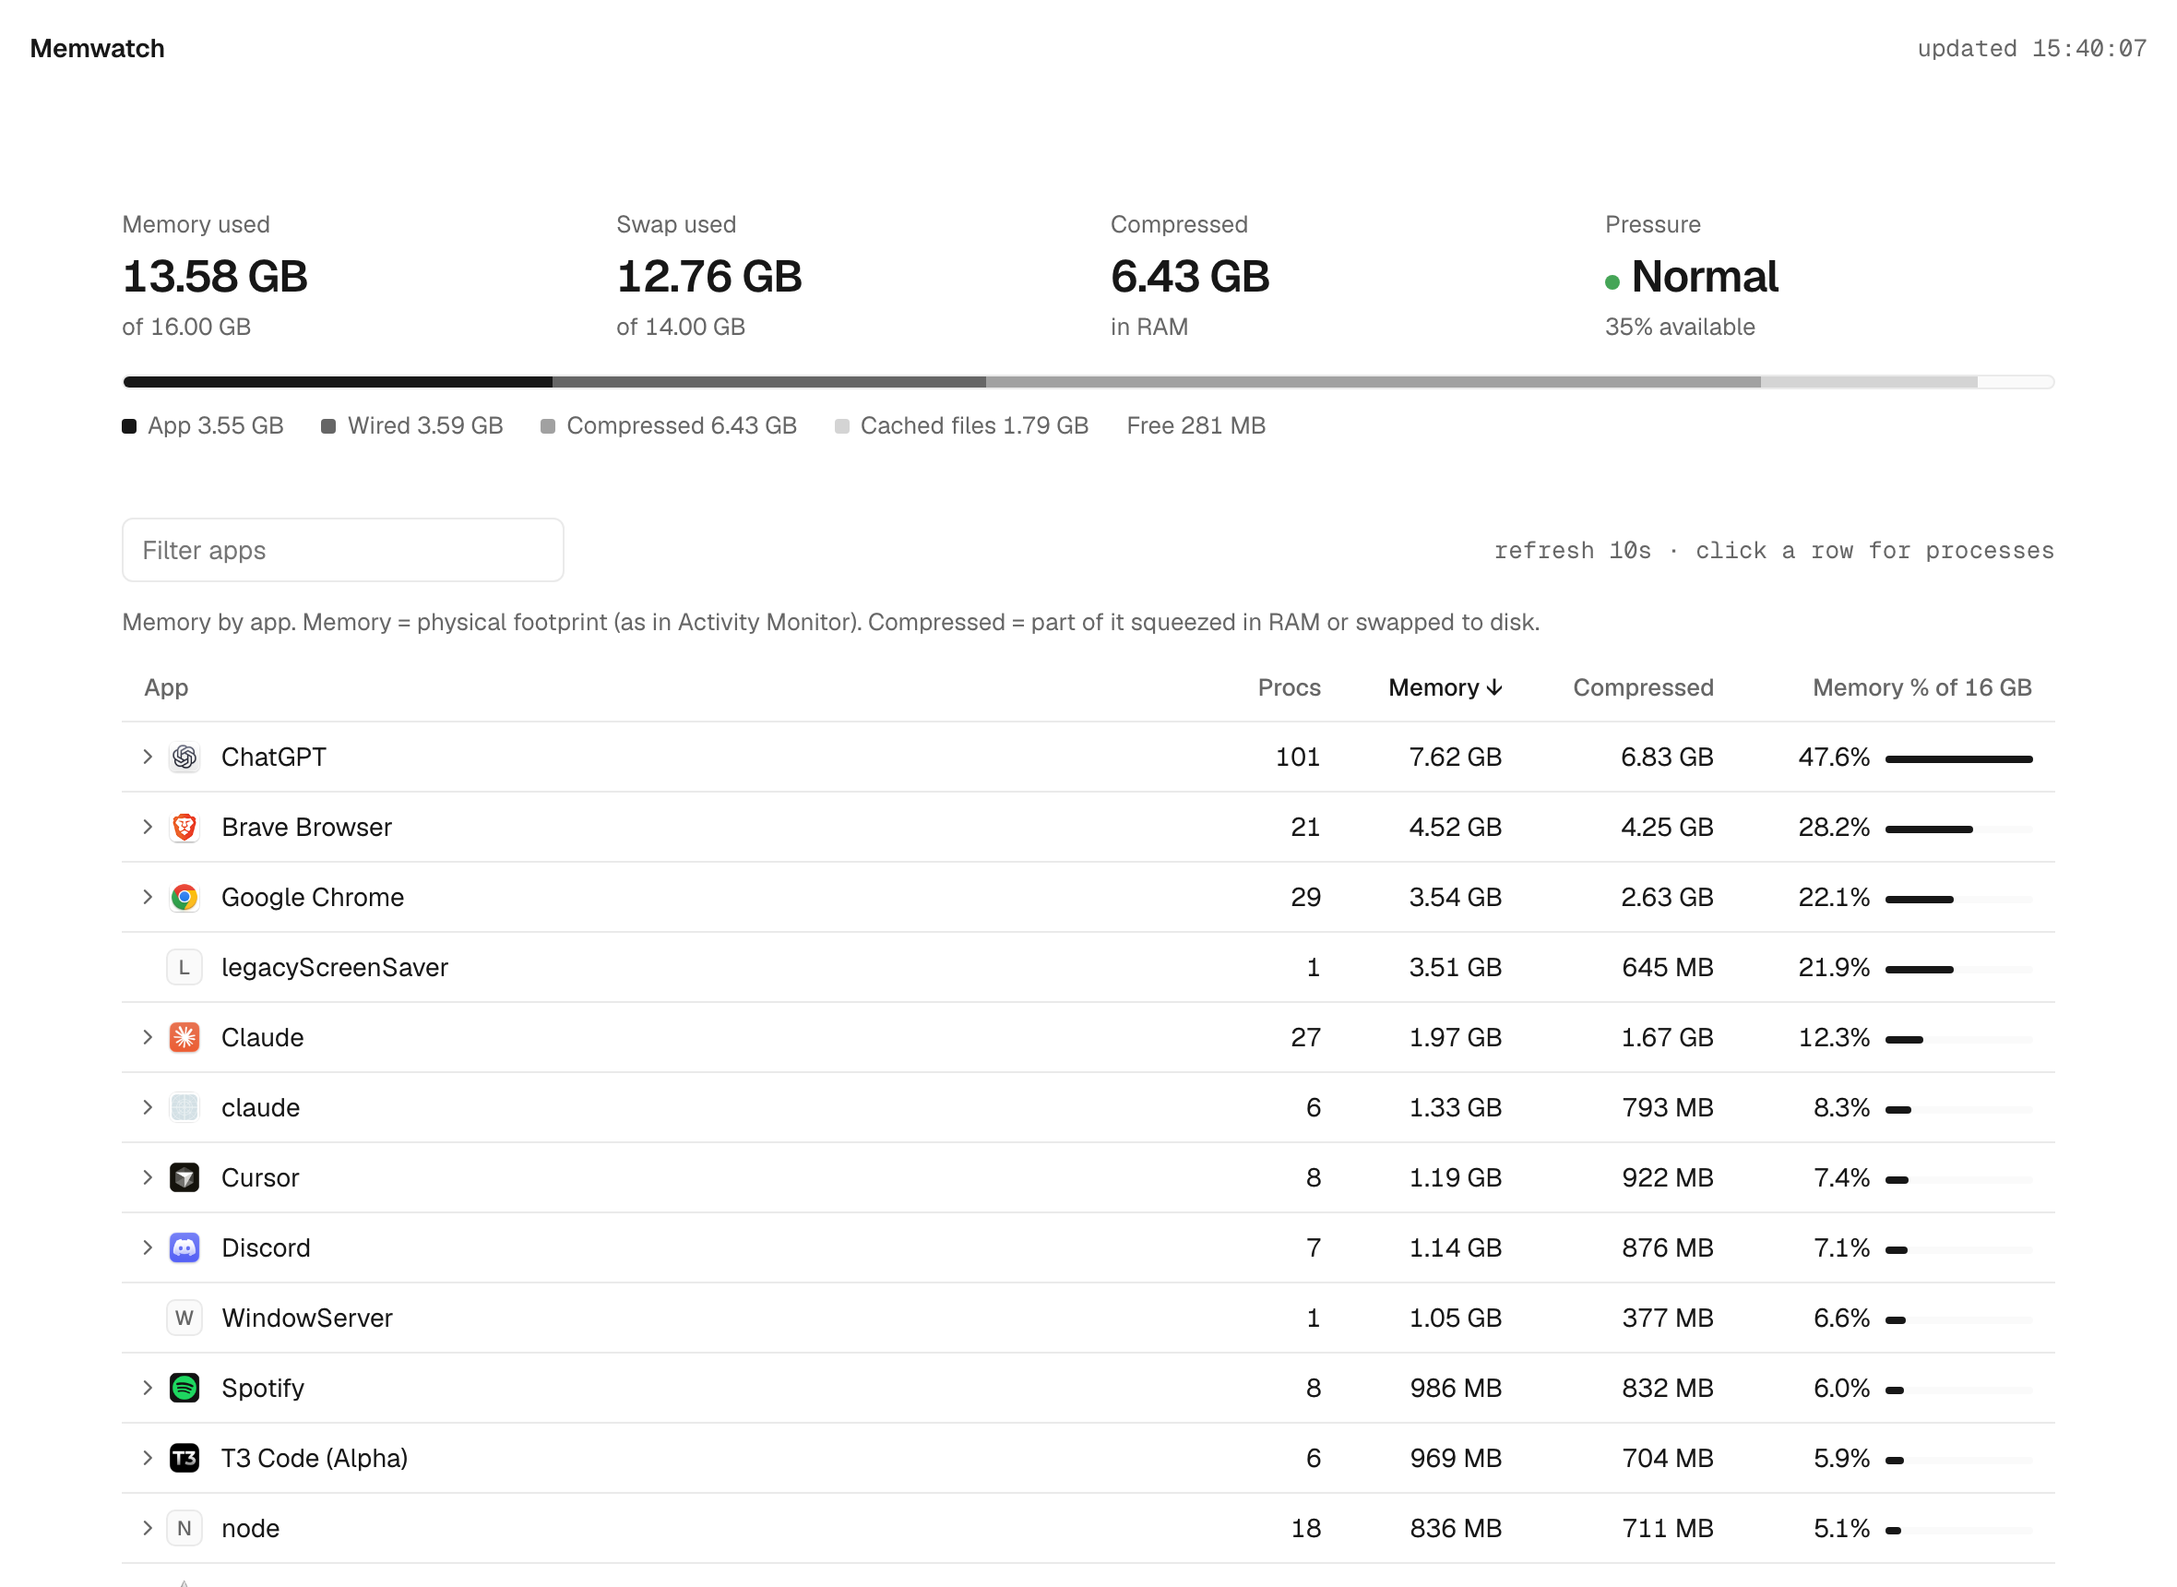
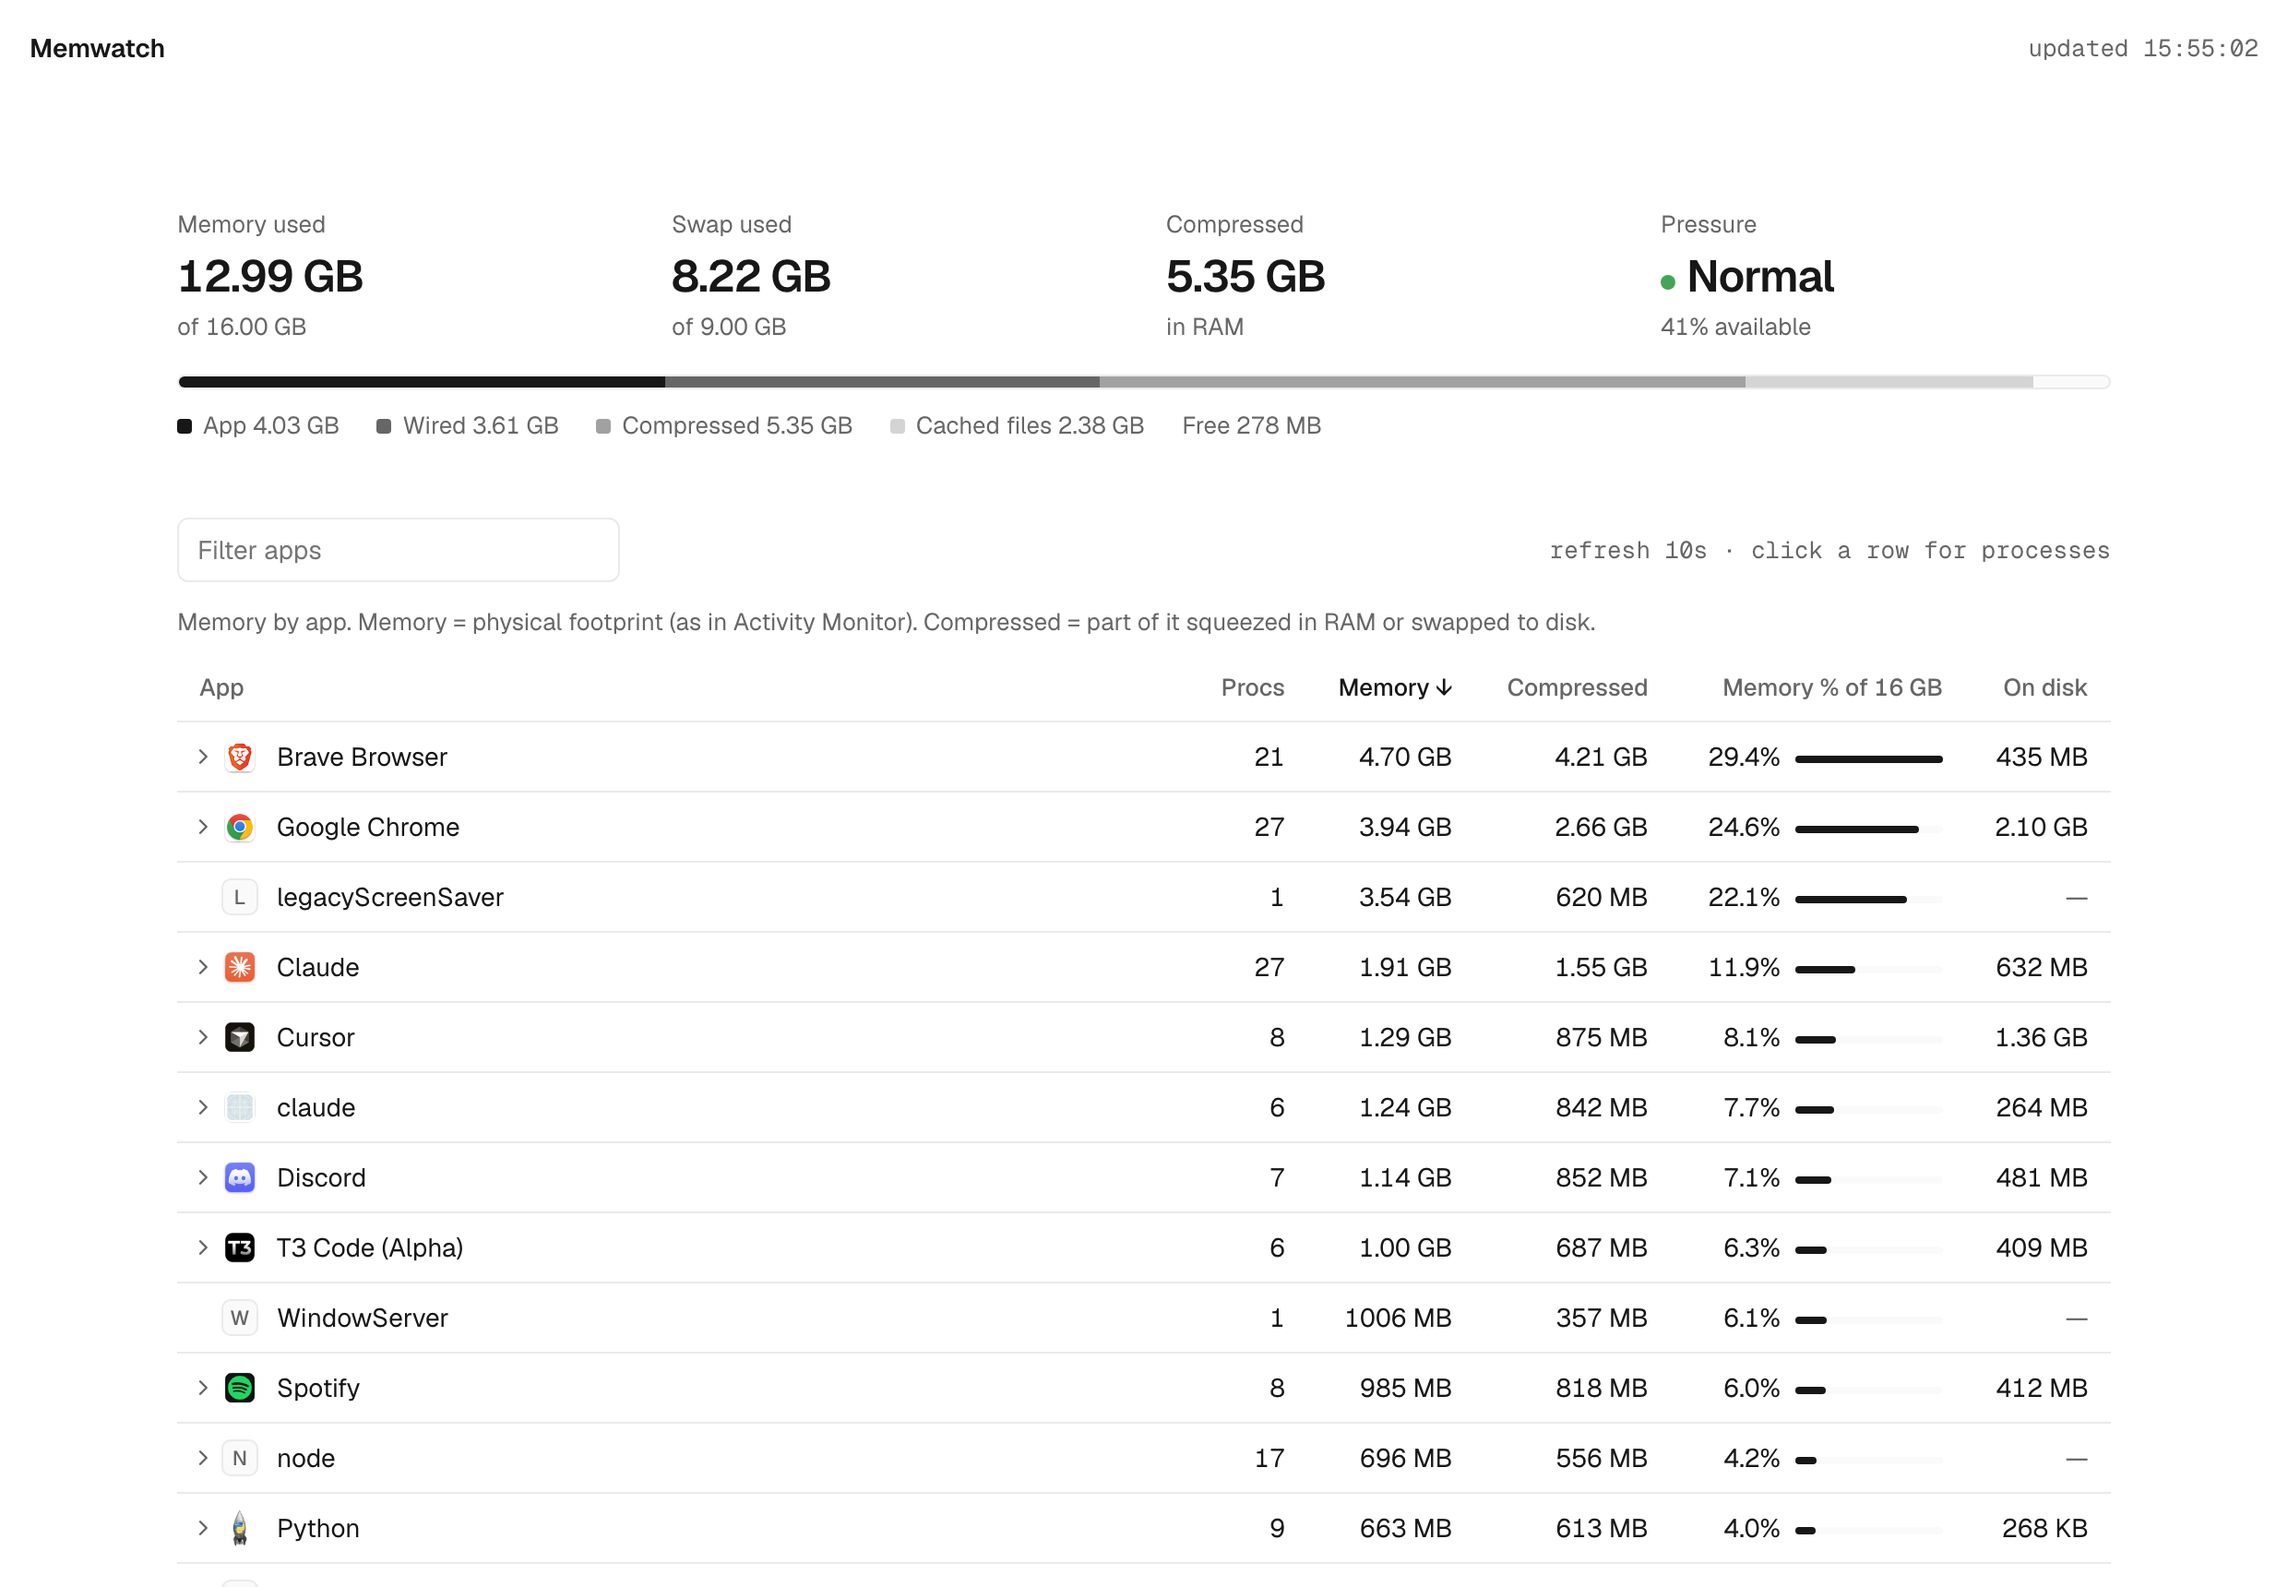
Show each app's size on disk; add MIT license

diff --git a/memwatch.py b/memwatch.py
@@ -48,6 +48,31 @@ function run(argv) {
 icon_lock = threading.Lock()
 icon_failed = set()
 
+# Size of each .app bundle on disk (du = allocated blocks, like Finder's "on disk"). Big apps take seconds,
+# so it's measured in the background and kept in a JSON cache keyed like the icons (path + mtime).
+DISK_CACHE = os.path.join(os.path.dirname(ICONS), "disk.json")
+disk_lock = threading.Lock()
+try:
+    with open(DISK_CACHE) as f:
+        disk_sizes = json.load(f)
+except (OSError, ValueError):
+    disk_sizes = {}
+
+
+def measure_disk(todo):  # {key: bundle}; one batch at a time
+    if not disk_lock.acquire(blocking=False):
+        return
+    try:
+        for k, b in todo.items():
+            out = sh("du", "-sk", os.path.realpath(b)).split()
+            disk_sizes[k] = int(out[0]) * 1024 if out and out[0].isdigit() else -1  # -1: couldn't read
+        os.makedirs(os.path.dirname(DISK_CACHE), exist_ok=True)
+        with open(DISK_CACHE + ".tmp", "w") as f:
+            json.dump(disk_sizes, f)
+        os.replace(DISK_CACHE + ".tmp", DISK_CACHE)
+    finally:
+        disk_lock.release()
+
 
 def icon_id(bundle):
     try:  # mtime in the key so an updated app gets its new icon
@@ -92,15 +117,22 @@ def snapshot():
         a["procs"].append({"pid": int(pid), "name": path.rsplit("/", 1)[-1], "mem": mem, "cmprs": cmprs})
 
     rows =[{"app": k, **v, "procs": sorted(v["procs"], key=lambda p: -p["mem"])} for k, v in apps.items()]
-    todo = {}
+    todo, disk_todo = {}, {}
     for r in rows:
         b = r.pop("bundle")
         i = icon_id(b) if b else None
         r["icon"] = i if i and os.path.exists(f"{ICONS}/{i}.png") else None
         if i and not r["icon"] and i not in icon_failed:
             todo[i] = b
-    if todo:  # icons show up on the next poll
+        d = disk_sizes.get(i) if i else None
+        r["disk"] = d if d is not None and d >= 0 else None
+        if i and d is None:
+            disk_todo[i] = b
+    # icons and disk sizes show up on a later poll
+    if todo:
         threading.Thread(target=fetch_icons, args=(todo,), daemon=True).start()
+    if disk_todo:
+        threading.Thread(target=measure_disk, args=(disk_todo,), daemon=True).start()
     return {"sys": sysmem(), "apps": sorted(rows, key=lambda r: -r["mem"])}
 
 
@@ -160,7 +192,7 @@ header{position:sticky;top:0;z-index:2;height:var(--tb);display:flex;justify-con
 .mb .kpis{margin:4px 0 12px;gap:12px 16px;grid-template-columns:1fr 1fr}
 .mb .kpi .v{font-size:20px}
 .mb .legend{margin-bottom:20px}
-.mb caption,.mb .tools .meta,.mb th:nth-child(2),.mb td:nth-child(2),.mb th:nth-child(4),.mb td:nth-child(4){display:none}
+.mb caption,.mb .tools .meta,.mb th:nth-child(2),.mb td:nth-child(2),.mb th:nth-child(4),.mb td:nth-child(4),.mb th:nth-child(6),.mb td:nth-child(6){display:none}
 .mb input{width:100%}
 .mb th,.mb td{padding-left:8px;padding-right:8px}
 .mb tr.proc td:first-child{padding-left:50px}
@@ -191,6 +223,7 @@ tr.app:hover td{background:var(--bg2)}
 tr.app:focus-visible{outline:2px solid var(--fg2);outline-offset:-2px}
 tr.proc td{color:var(--fg2);font-size:13px;border-bottom-color:transparent}
 tr.proc td:first-child{padding-left:54px}
+.dim{color:var(--fg2)}
 .pid{font-family:'Geist Mono',monospace;font-size:12px}
 .share{display:inline-block;width:80px;height:4px;background:var(--bg2);border-radius:2px;vertical-align:middle;margin-left:8px}
 .share b{display:block;height:100%;background:var(--fg);border-radius:2px}
@@ -223,7 +256,8 @@ tr.app:hover .chev{color:var(--fg)}
 <th class="n" data-k="n" title="Number of running processes for this app">Procs</th>
 <th class="n" data-k="mem" title="Physical footprint: RAM this app is using right now, including its compressed part. Same number as Activity Monitor's Memory column.">Memory</th>
 <th class="n" data-k="cmprs" title="Part of Memory that macOS has compressed in RAM or moved to swap on disk">Compressed</th>
-<th class="n" data-k="mem" id="share" title="Memory as a share of your installed RAM">Memory % of RAM</th></tr></thead>
+<th class="n" data-k="mem" id="share" title="Memory as a share of your installed RAM">Memory % of RAM</th>
+<th class="n" data-k="disk" title="Space the app itself takes on your drive (its .app bundle). Doesn't include its documents, caches or other data.">On disk</th></tr></thead>
 <tbody id="rows"></tbody></table></div>
 </main><script>
 const $=id=>document.getElementById(id), open=new Set();
@@ -243,7 +277,7 @@ const icon=a=>a.icon?`<img class="ico" src="/icon/${a.icon}.png" alt="">`:`<span
 const sk=(w,h=12)=>`<span class="sk" style="width:${w}px;height:${h}px"></span>`;
 $('kpis').innerHTML=[72,64,80,60].map(w=>`<div class="kpi"><div class="l">${sk(w)}</div><div class="v">${sk(w+56,22)}</div><div class="s">${sk(w-8)}</div></div>`).join('');
 $('legend').innerHTML=[64,72,96,92,64].map(w=>`<span>${sk(w)}</span>`).join('');
-$('rows').innerHTML=[128,104,88,136,64,112,96,72,120,80].map((w,i)=>`<tr style="opacity:${1-i*.08}"><td><span class="chev"></span><span class="sk ico"></span>${sk(w)}</td><td class="n">${sk(20)}</td><td class="n">${sk(56)}</td><td class="n">${sk(52)}</td><td class="n">${sk(36)}<span class="share">${sk(80,4)}</span></td></tr>`).join('');
+$('rows').innerHTML=[128,104,88,136,64,112,96,72,120,80].map((w,i)=>`<tr style="opacity:${1-i*.08}"><td><span class="chev"></span><span class="sk ico"></span>${sk(w)}</td><td class="n">${sk(20)}</td><td class="n">${sk(56)}</td><td class="n">${sk(52)}</td><td class="n">${sk(36)}<span class="share">${sk(80,4)}</span></td><td class="n">${sk(48)}</td></tr>`).join('');
 function render(){
   if(!data) return;
   document.querySelector('main').removeAttribute('aria-busy'); $('bar').classList.remove('loading');
@@ -262,13 +296,13 @@ function render(){
   const q=$('q').value.toLowerCase();
   const rows=data.apps.filter(a=>!q||a.app.toLowerCase().includes(q)||a.procs.some(x=>x.name.toLowerCase().includes(q)))
     .map(a=>({...a,n:a.procs.length}))
-    .sort((a,b)=>{const x=a[sortK],y=b[sortK];return (typeof x=='string'?x.localeCompare(y):x-y)*(asc?1:-1)});
+    .sort((a,b)=>{const x=a[sortK]??-1,y=b[sortK]??-1;return (typeof x=='string'?x.localeCompare(y):x-y)*(asc?1:-1)});
   const max=Math.max(...data.apps.map(a=>a.mem));
   const focused=document.activeElement?.closest?.('tr.app')?.dataset.a;
   $('rows').innerHTML=rows.slice(0,200).map(a=>{
     const o=open.has(a.app), pct=a.mem/s.total*100;
-    let h=`<tr class="app" data-a="${esc(a.app)}"${a.n>1?` tabindex="0" aria-expanded="${o}"`:''}><td><span class="chev">${a.n>1?CHEV:''}</span>${icon(a)}${esc(a.app)}</td><td class="n">${a.n}</td><td class="n">${fmt(a.mem)}</td><td class="n">${fmt(a.cmprs)}</td><td class="n">${pct.toFixed(1)}%<span class="share"><b style="width:${a.mem/max*100}%"></b></span></td></tr>`;
-    if(o&&a.n>1) h+=a.procs.map(x=>`<tr class="proc"><td>${esc(x.name)} <span class="pid">${x.pid}</span></td><td></td><td class="n">${fmt(x.mem)}</td><td class="n">${fmt(x.cmprs)}</td><td class="n">${(x.mem/s.total*100).toFixed(1)}%</td></tr>`).join('');
+    let h=`<tr class="app" data-a="${esc(a.app)}"${a.n>1?` tabindex="0" aria-expanded="${o}"`:''}><td><span class="chev">${a.n>1?CHEV:''}</span>${icon(a)}${esc(a.app)}</td><td class="n">${a.n}</td><td class="n">${fmt(a.mem)}</td><td class="n">${fmt(a.cmprs)}</td><td class="n">${pct.toFixed(1)}%<span class="share"><b style="width:${a.mem/max*100}%"></b></span></td><td class="n">${a.disk!=null?fmt(a.disk):`<span class="dim" title="${a.icon?'Measuring…':'Not an app bundle'}">—</span>`}</td></tr>`;
+    if(o&&a.n>1) h+=a.procs.map(x=>`<tr class="proc"><td>${esc(x.name)} <span class="pid">${x.pid}</span></td><td></td><td class="n">${fmt(x.mem)}</td><td class="n">${fmt(x.cmprs)}</td><td class="n">${(x.mem/s.total*100).toFixed(1)}%</td><td></td></tr>`).join('');
     return h}).join('');
   // rows are rebuilt every refresh; put keyboard focus back where it was
   if(focused!=null) [...$('rows').querySelectorAll('tr.app')].find(r=>r.dataset.a===focused)?.focus({preventScroll:true});

diff --git a/README.md b/README.md
@@ -22,6 +22,9 @@ one for Slack, one for whatever Electron app you forgot was open, with the real 
   processes inside it.
 - **Compressed** per app: the part macOS has squeezed in RAM or pushed out to swap.
   macOS doesn't report swap per app, so this is the closest you can get.
+- **On disk**: how much space the app itself takes on your drive. Handy when you're
+  deciding what to uninstall. It's measured in the background the first time and cached,
+  so big apps fill in after a few seconds.
 
 Hover any column header for a short explanation of what it measures.
 
@@ -81,7 +84,13 @@ Both light and dark mode follow your system setting.
 
 - "Memory" is the physical footprint, the same number Activity Monitor shows. It
   includes the compressed part, which is why the percentages can add up to more than 100%.
+- "On disk" is just the `.app` bundle. An app's documents, caches and other data live
+  elsewhere in `~/Library` and aren't counted.
 - The app is signed ad-hoc on your own machine by `build.sh`, so there's no
   Gatekeeper prompt. If you share the built `.app` with someone else, they'll need to
   right-click → Open the first time.
 - Logs go to `~/Library/Logs/Memwatch.log` if something goes wrong.
+
+## License
+
+MIT
